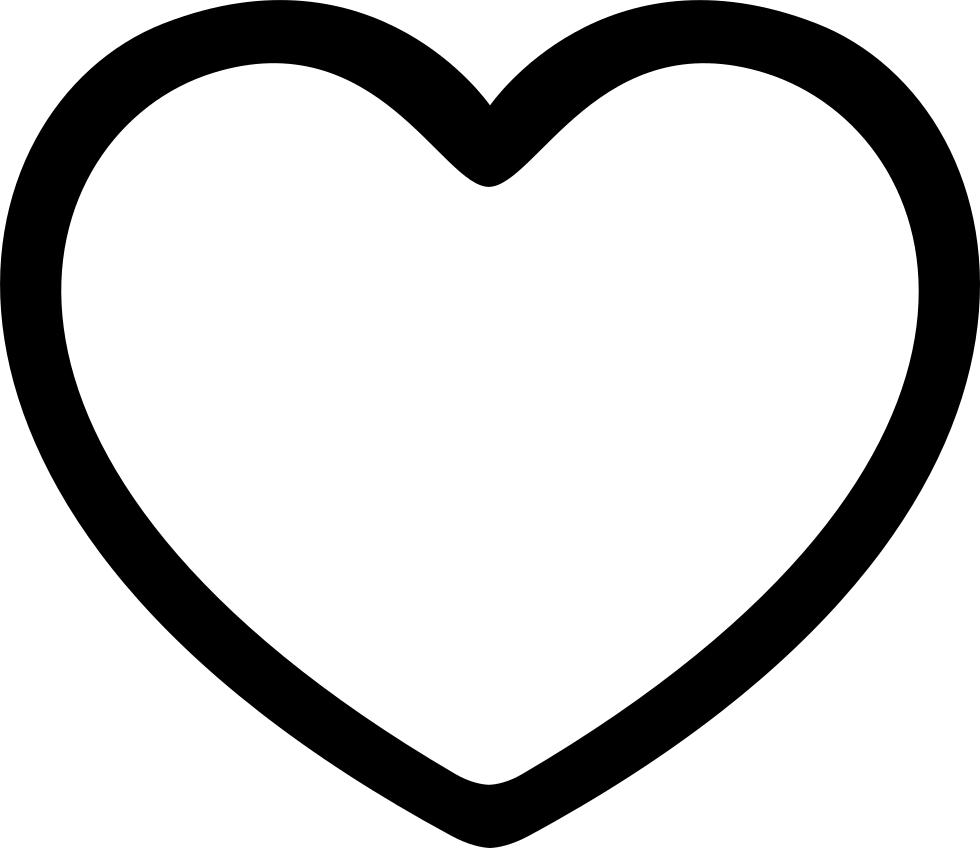
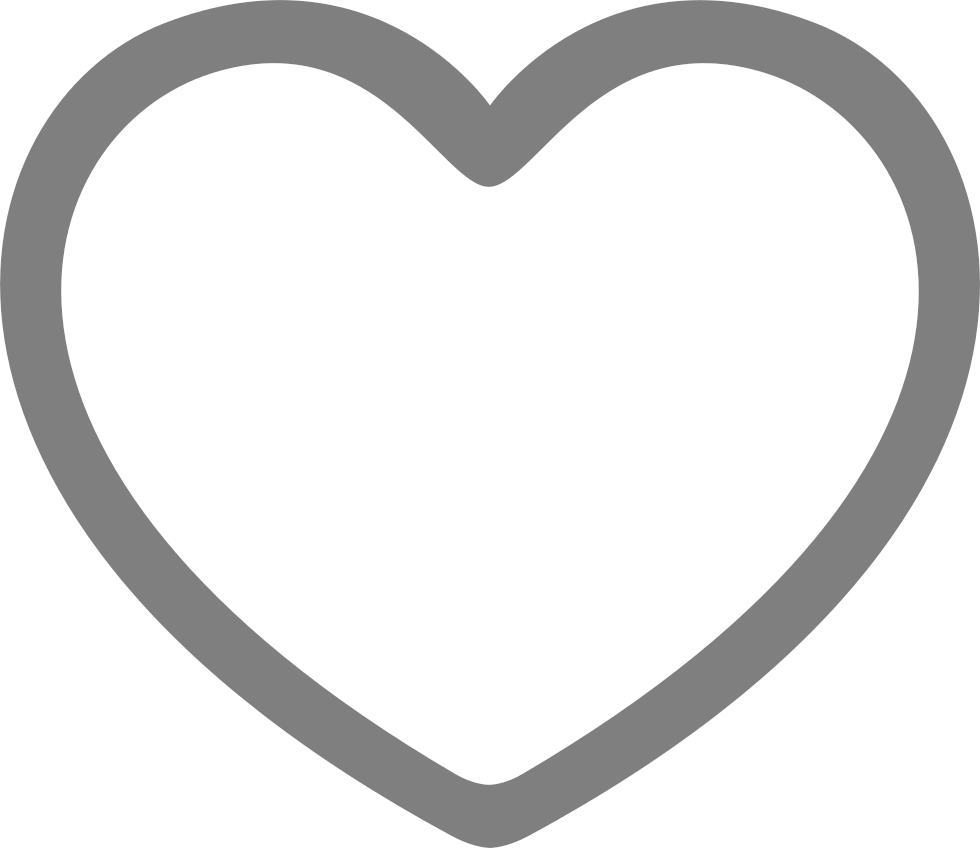
Zealan again (#34)
* did removing and adding gifs from favs

* made heart look "better"

Changed region(s): [[0.0, 0.0, 1.0, 1.0]]

diff --git a/js/index.js b/js/index.js
@@ -2,6 +2,7 @@ const limit = 30;
 const apiKey = 'KkQIVU7CgUTlND28O2bDZveA3Z8Vl1kz';
 const key = 'favorites';
 let inTrending = false;
+let inFavorites = false
 
 
 document.addEventListener('DOMContentLoaded', trendingGifs);
@@ -12,6 +13,7 @@ const gifContainer = document.querySelector('#gifContainer');
 document.querySelector('#trendingButton').addEventListener('click', trendingGifs);
 
 function trendingGifs() {
+  inFavorites = false
   inTrending = true;
   gifContainer.innerHTML = null;
     let url = `https://api.giphy.com/v1/gifs/trending?api_key=${apiKey}&limit=${limit}`
@@ -62,6 +64,7 @@ $('#searchBar').keypress(event => {
 });
 
   document.querySelector('#searchButton').addEventListener('click', ev => {
+    inFavorites = false
     inTrending = false
 
     ev.preventDefault();
@@ -95,10 +98,11 @@ document.querySelector('#favoritesButton').addEventListener('click', favoriteGif
 
 function favoriteGifs() {
   inTrending = false
+  inFavorites = true
+
   contentHeader.innerText = "Favorites";
   gifContainer.innerHTML = null;
   let storageFavorites = JSON.parse(localStorage.getItem(key));
-  // console.log(storageFavorites);
   for (let id in storageFavorites) {
     let url = `https://api.giphy.com/v1/gifs/${storageFavorites[id]}?api_key=${apiKey}`;
     fetch(url)
@@ -136,11 +140,13 @@ function removeFromFavs(containerId) {
   let store = JSON.parse(localStorage.getItem(key));
   let result = store.filter(id => id != containerId);
   localStorage.setItem(key, JSON.stringify(result));
-  if(!inTrending) {
-    favoriteGifs()
+  if(inFavorites) {
+    $(container).remove()
   }
-  $(container).children()[1].remove()
-  $(container).append(`<img class='iconImage' onclick='addToFavs("${containerId}")' src='./images/hollowHeart.png'>`)
+  else {
+    $(container).children()[1].remove()
+    $(container).append(`<img class='iconImage' onclick='addToFavs("${containerId}")' src='./images/hollowHeart.png'>`)
+  }
   removeDuplicates()
 }
 

diff --git a/css/index.css b/css/index.css
@@ -82,6 +82,7 @@ body #nav #searchBar #searchButton {
   align-self: center;
   margin-right: 4px;
   width: 42px;
+  min-width: 42px;
   height: 42px;
   background-color: #434f8d;
   border-radius: 100px;
@@ -152,6 +153,7 @@ body #nav #searchBar #searchButton:hover {
   cursor: pointer;
 }
 #content #gifContainer .gifDiv:hover .iconImage {
+  cursor: pointer;
   display: block;
 }
 

diff --git a/scss/_header.scss b/scss/_header.scss
@@ -89,6 +89,7 @@ body {
                 $diameter: 42px;
                 margin-right: 4px;
                 width: $diameter;
+                min-width: $diameter;
                 height: $diameter;
                 background-color: vars.$light;
                 border-radius: 100px;

diff --git a/scss/_trending.scss b/scss/_trending.scss
@@ -75,6 +75,7 @@
       }
       &:hover {
         .iconImage {
+          cursor: pointer;
           display: block;
         }
       }
